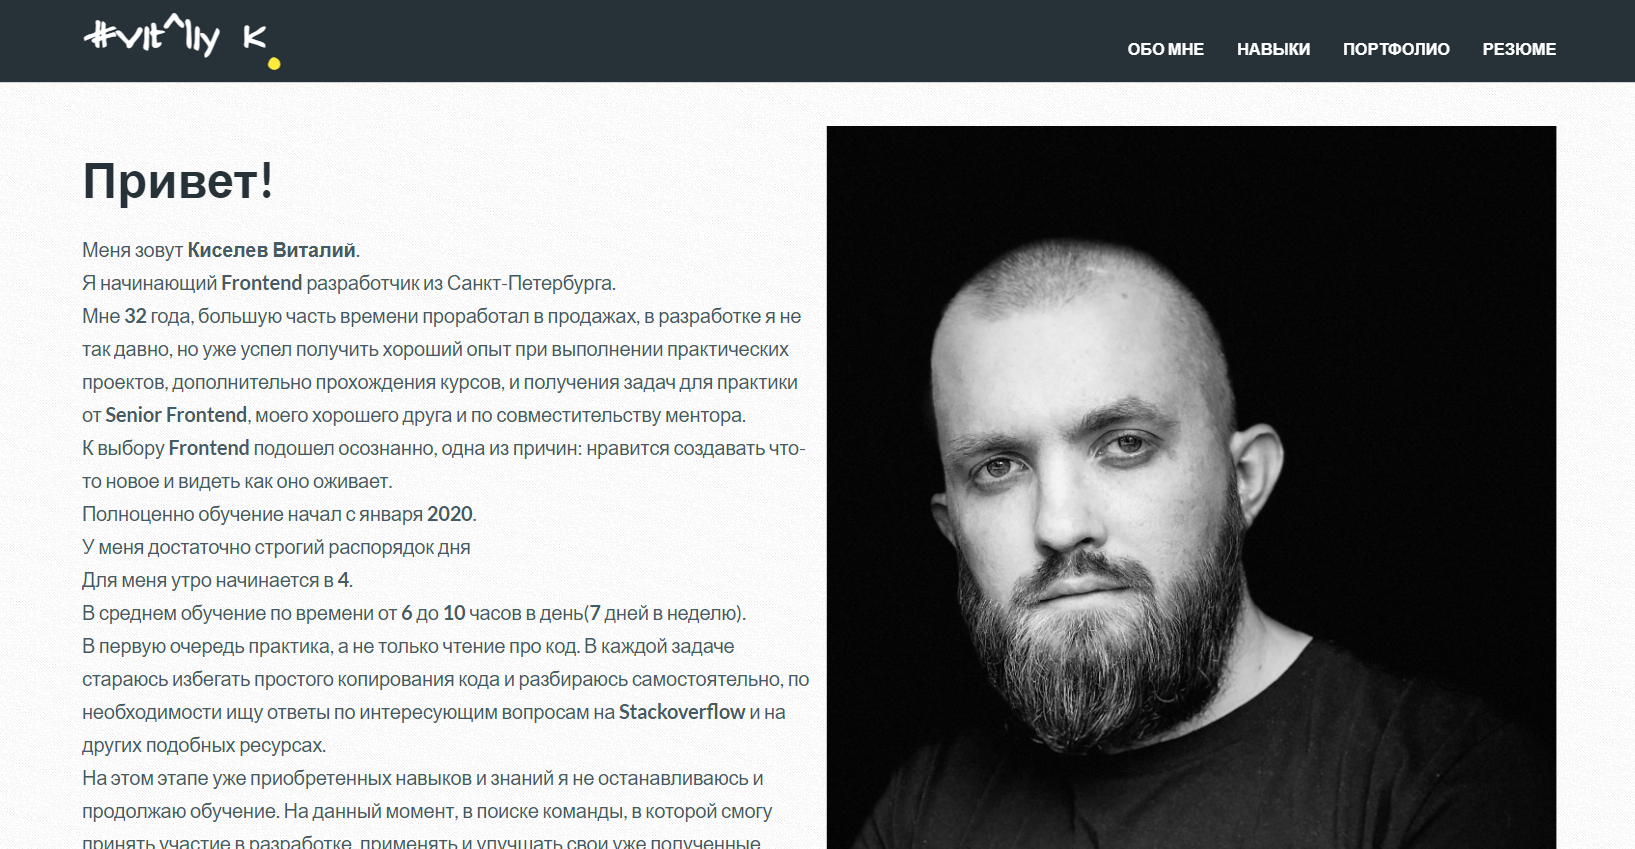
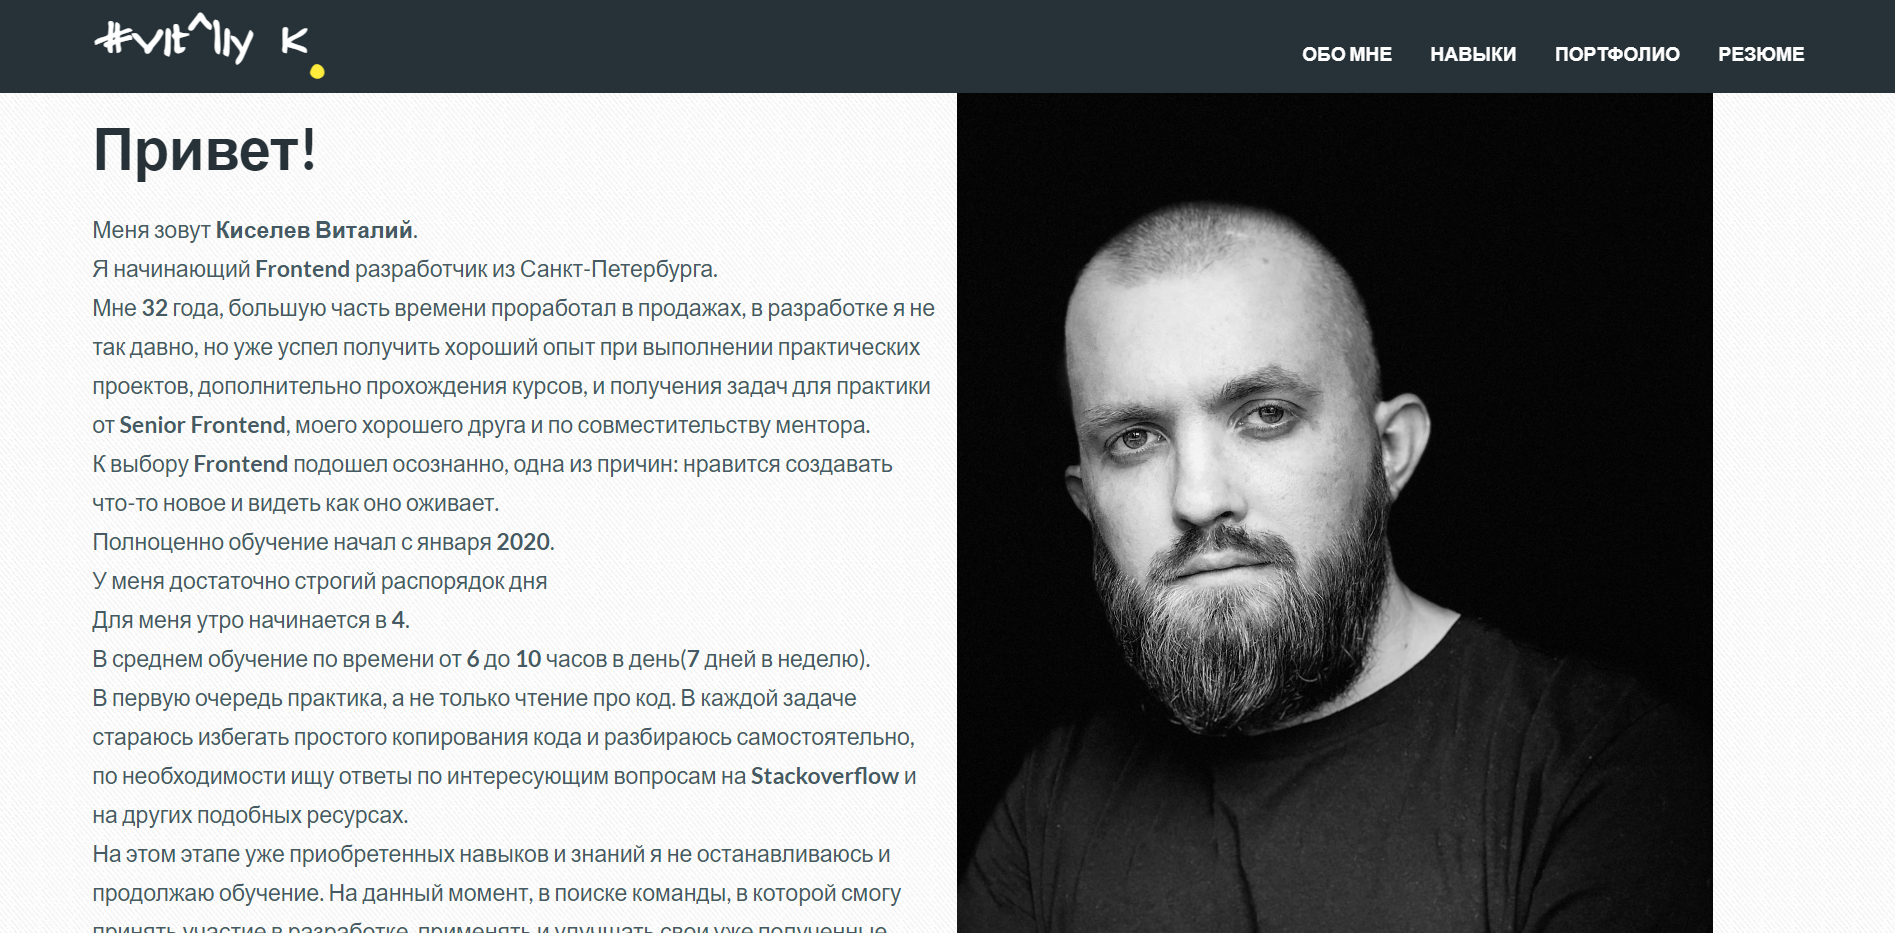
добавил несколько работ в портфолио и исправил ссылку на телеграмм

diff --git a/src/components/AppFooter.vue b/src/components/AppFooter.vue
@@ -1,0 +1,93 @@
+<template>
+  <div class="footer">
+    <div class="container">
+      <div class="footer__wrapper">
+        <div class="footer__contact">
+          <font-awesome-icon icon="copyright" class="footer__contact__icon" />
+          <p class="footer__contact__text">Виталий Киселев</p>
+        </div>
+        <div class="footer__social">
+          <ul class="footer__social__list">
+            <li
+              v-for="{ path, type, name } in getFilteredHomeSocial"
+              :key="path"
+              class="footer__social__list__item"
+            >
+              <a :href="path" class="footer__social__link">
+                <font-awesome-icon :icon="[type, name]" />
+              </a>
+            </li>
+          </ul>
+        </div>
+      </div>
+    </div>
+  </div>
+</template>
+
+<script>
+import { mapGetters } from "vuex";
+
+export default {
+  name: "AppFooter",
+  computed: {
+    ...mapGetters(["getFilteredHomeSocial"]),
+  },
+};
+</script>
+
+<style scoped lang="scss">
+.footer {
+  padding: 30px 0;
+  border-top: 1px solid rgba(0, 0, 0, 0.1);
+  width: 100%;
+  &__wrapper {
+    display: flex;
+    align-items: center;
+    justify-content: space-between;
+    @media (max-width: 414px) {
+      justify-content: center;
+    }
+  }
+
+  &__contact {
+    display: flex;
+    font-size: calc(14px + 0.1vw);
+    @media (max-width: 414px) {
+      display: none;
+    }
+
+    &__icon {
+      color: rgba(38, 50, 56, 0.1);
+    }
+    &__text {
+      color: rgba(38, 50, 56, 0.5);
+      font-weight: 600;
+      //font-size: calc(14px + .1vw);
+    }
+  }
+
+  &__social {
+    &__list {
+      display: flex;
+      align-items: center;
+      justify-content: center;
+      margin: 0 -10px;
+      &__item {
+        padding: 0 10px;
+        font-size: calc(14px + 0.8vw);
+        a {
+          transition: all 0.3s;
+          color: rgba(38, 50, 56, 0.5);
+
+          &:hover {
+            color: rgba(38, 50, 56, 1);
+          }
+        }
+      }
+    }
+
+    &__link {
+    }
+  }
+}
+</style>

diff --git a/src/store/index.js b/src/store/index.js
@@ -30,7 +30,7 @@ export default createStore({
       {
         type: "fab",
         name: "telegram",
-        path: "tg://resolve?domain=Vit4lyKiselev",
+        path: "tg://resolve?domain=@Vit4liyKiselev",
         text: "Написать в Telegram",
       },
       {
@@ -50,7 +50,7 @@ export default createStore({
         type: "fab",
         name: "instagram",
         path: "https://www.instagram.com/vitos03/",
-        text: "О себе в картинках",
+        text: "Instagram",
       },
       {
         type: "fab",
@@ -121,7 +121,7 @@ export default createStore({
         name: "resume",
         path: "resume",
         text: "Реализация проекта для создания резюме на VueJs",
-        ref: "https://vue-resume-bdc78.firebaseapp.com/",
+        ref: "https://vue-resume-9ec6c.web.app/",
       },
       {
         name: "shop",
@@ -148,6 +148,18 @@ export default createStore({
         path: "resume-v1",
         text: "Это первый сайт портфолио.",
         ref: "https://vit4ly.github.io/Portfolio/",
+      },
+      {
+        name: "drag-n-drop",
+        path: "drag-n-drop",
+        text: "Реализация Drag-n-drop на чистом JS",
+        ref: "https://vit4ly.github.io/drag-n-drop/",
+      },
+      {
+        name: "Slid-card",
+        path: "slide-card",
+        text: "Реализация слайдера на чистом JS",
+        ref: "https://vit4ly.github.io/01-cards-sources/",
       },
     ],
   },

diff --git a/src/App.vue b/src/App.vue
@@ -4,11 +4,13 @@
   <div class="screen" @click="eventClickClose">
     <router-view />
   </div>
+  <app-footer></app-footer>
 </template>
 
 <script>
 import TheNavBar from "@/components/TheNavBar";
 import TheSideBar from "@/components/TheSideBar";
+import AppFooter from "@/components/AppFooter";
 import { mapMutations } from "vuex";
 export default {
   methods: {
@@ -17,6 +19,7 @@ export default {
   components: {
     TheNavBar,
     TheSideBar,
+    AppFooter,
   },
 };
 </script>
@@ -27,7 +30,7 @@ export default {
   align-items: center;
   justify-content: center;
   padding: 80px 0 20px 100px;
-
+  flex: 0 0 auto;
   @media (max-width: 679px) {
     padding: 100px 0 50px 0;
   }

diff --git a/src/main.js b/src/main.js
@@ -18,6 +18,8 @@ import {
   faFilePdf,
   faAngleRight,
   faAngleLeft,
+  faLaptopCode,
+  faCopyright,
 } from "@fortawesome/free-solid-svg-icons";
 import {
   faTelegram,
@@ -49,6 +51,8 @@ library.add(
   faUser,
   faFilePdf,
   faMobileAlt,
+  faLaptopCode,
+  faCopyright,
   faAngleDoubleRight,
   faAngleRight,
   faAngleLeft,

diff --git a/src/components/AppCarousel.vue b/src/components/AppCarousel.vue
@@ -22,8 +22,9 @@ export default {
   position: relative;
   overflow: hidden;
   max-width: 800px;
+  max-height: 50vh;
   width: 80vw;
-  height: 60vh;
+  //height: 60vh;
   z-index: 10;
   @media (max-width: 1024px) {
     //width: 90vw;
